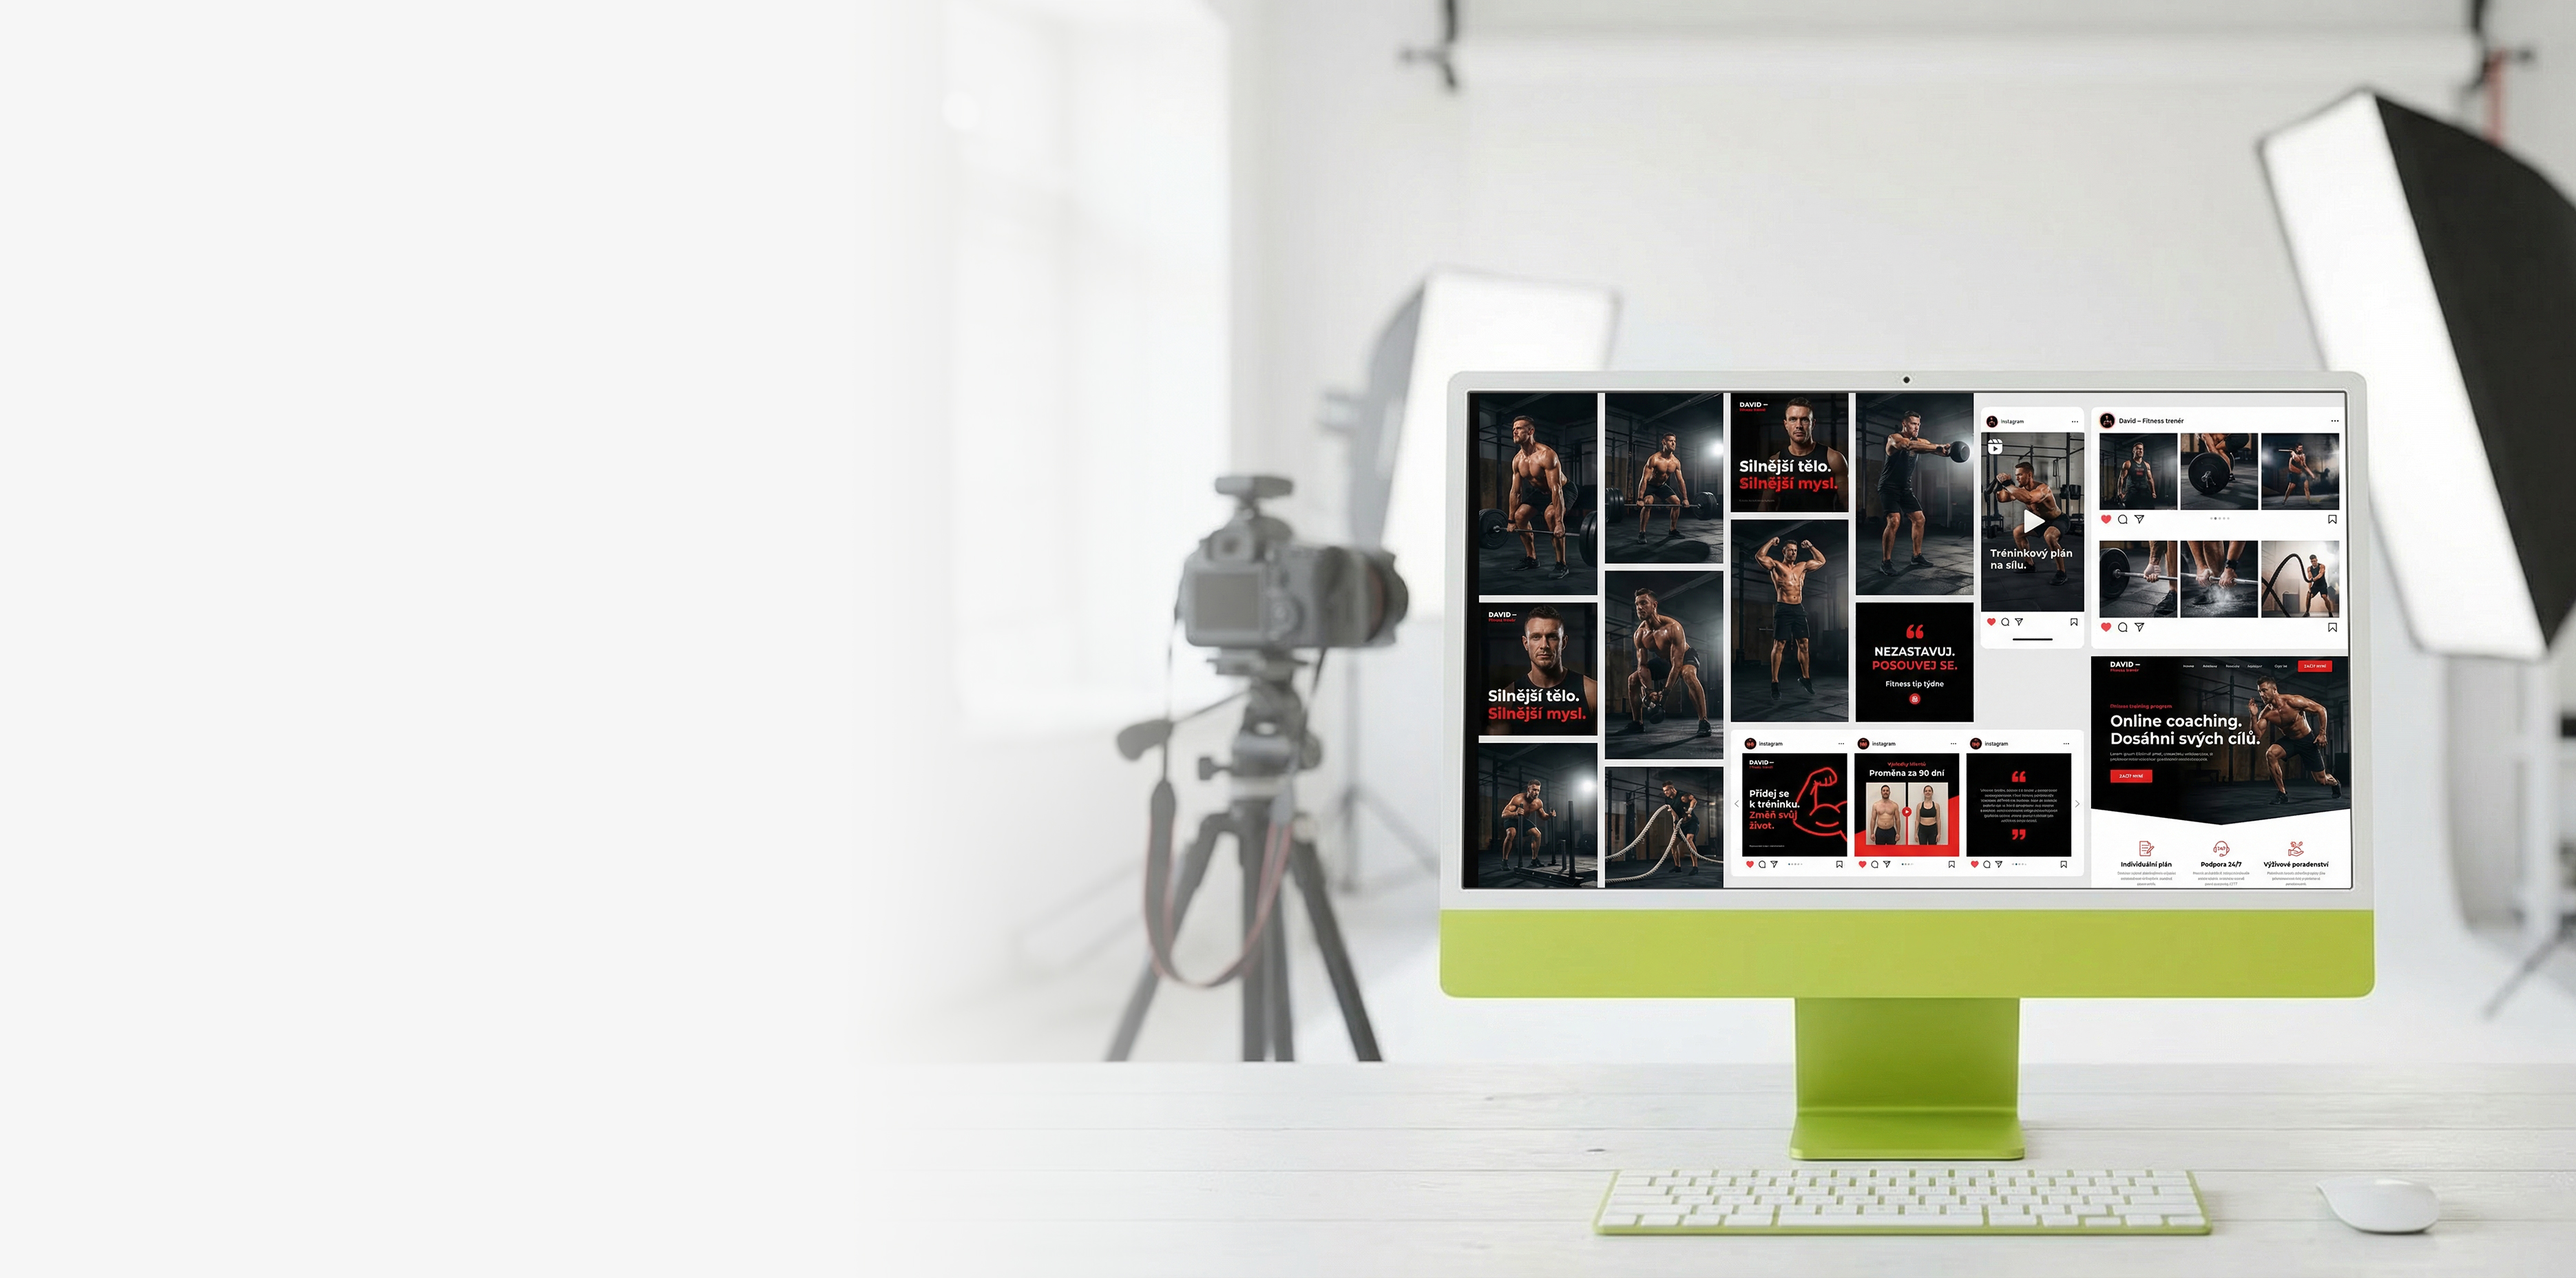
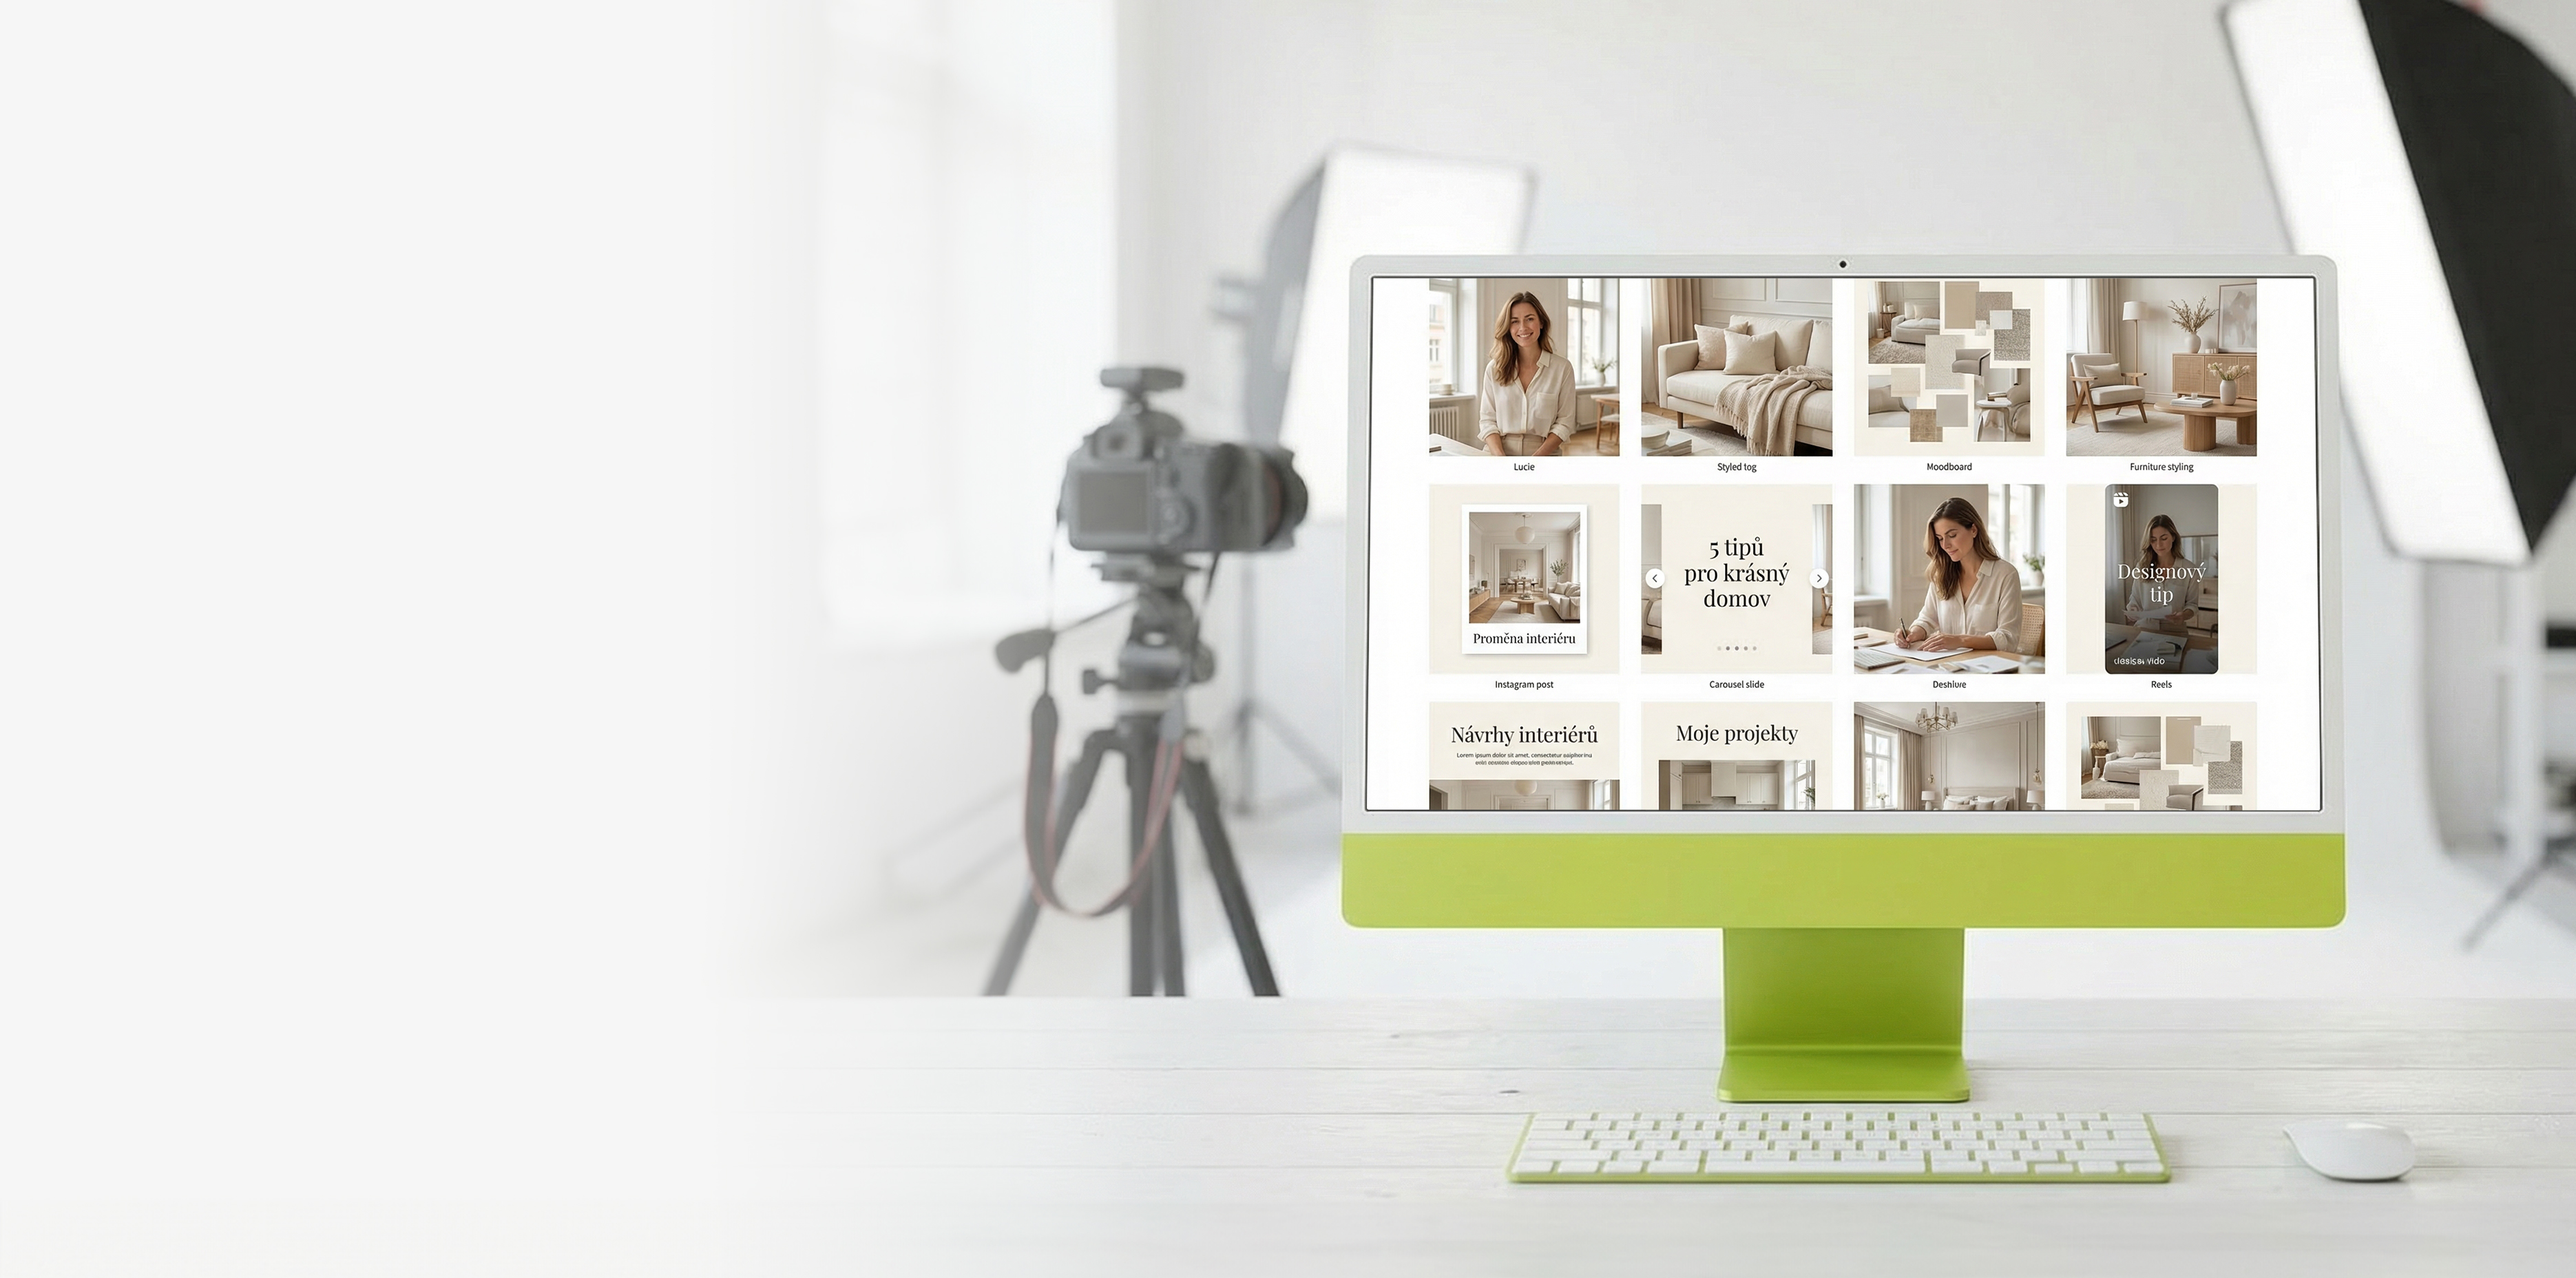
Hero carousel: přidáno 11 fotek (Coverpremium01–11)

diff --git a/apps/content-studio/src/app/premiova-vizualni-identita/page.tsx b/apps/content-studio/src/app/premiova-vizualni-identita/page.tsx
@@ -395,6 +395,14 @@ const CAROUSEL_PHOTOS = [
   "/placeholders/ukazky-brandu-new/Coverpremium01.jpg",
   "/placeholders/ukazky-brandu-new/Coverpremium02.jpg",
   "/placeholders/ukazky-brandu-new/Coverpremium03.jpg",
+  "/placeholders/ukazky-brandu-new/Coverpremium04.jpg",
+  "/placeholders/ukazky-brandu-new/Coverpremium05.jpg",
+  "/placeholders/ukazky-brandu-new/Coverpremium06.jpg",
+  "/placeholders/ukazky-brandu-new/Coverpremium07.jpg",
+  "/placeholders/ukazky-brandu-new/Coverpremium08.jpg",
+  "/placeholders/ukazky-brandu-new/Coverpremium09.jpg",
+  "/placeholders/ukazky-brandu-new/Coverpremium10.jpg",
+  "/placeholders/ukazky-brandu-new/Coverpremium11.jpg",
 ];
 
 export default function PremiovaVizualniIdentita() {
